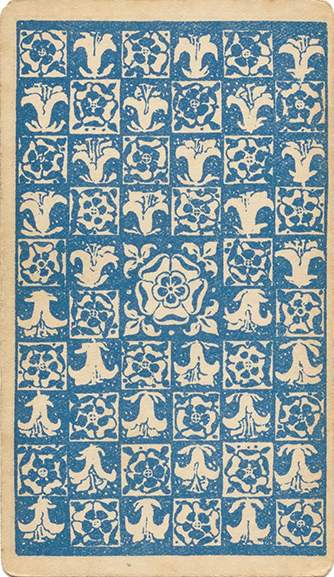
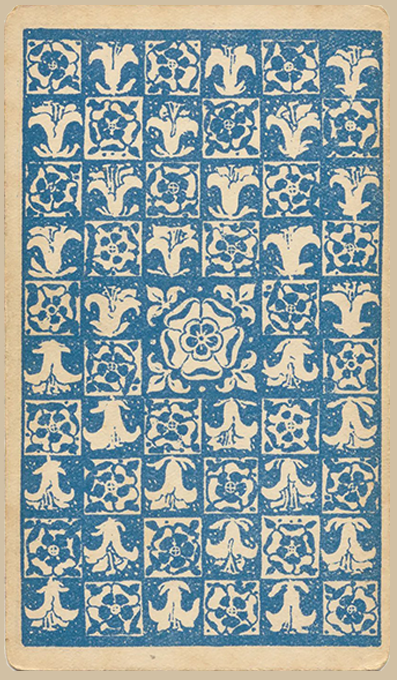
fixed button background on cards

diff --git a/src/matching-game/matching-game.css b/src/matching-game/matching-game.css
@@ -25,13 +25,29 @@ body {
 
 img {
     height: 200px;
+    object-fit: cover;
 }
 
 button {
     margin: 1rem;
+    border-width: 0;
+    background:none;
+    border-color: none;
+    border-style: none;
+}
+button:hover {
+    background:none;
+    border-width: 0;
+    border-color: none;
+    border-style: none;
+    border-radius: 10px;
 }
 
-button:hover {
+button:focus {
+    outline: 0;
+}
+
+img:hover {
     cursor: pointer;
     transform: scale(1.2);
     box-shadow: 0 0 1px #fff, 0 0 5px #fff, 0 0 5px #ff0080, 0 0 10px #ff0080, 0 0 15px #ff0080, 0 0 20px #ff0080, 0 0 30px #ff0080;